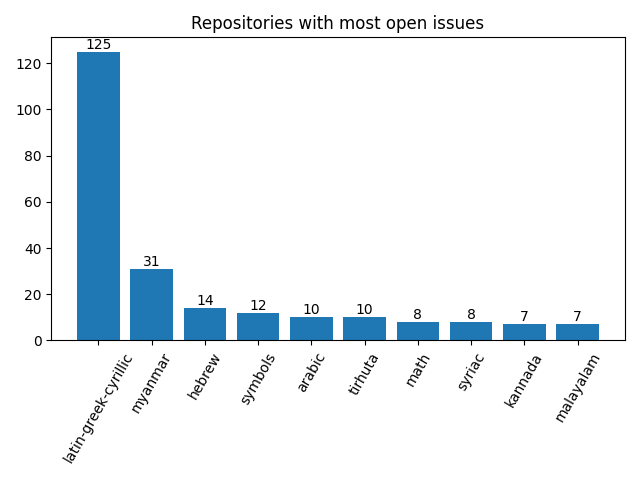
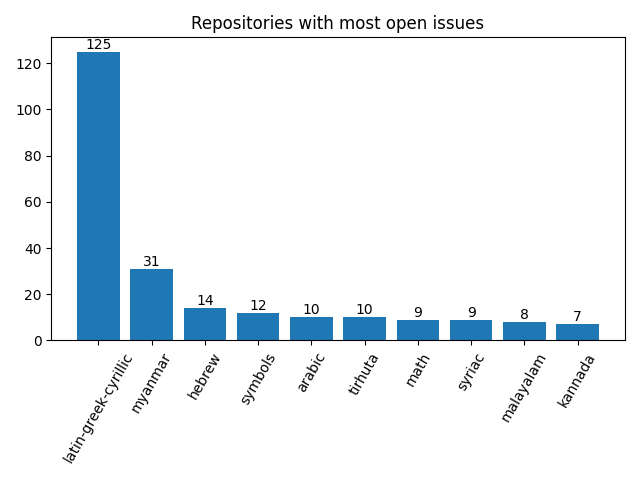
Apply automatic changes

diff --git a/docs/analytics.html b/docs/analytics.html
@@ -104,8 +104,8 @@ td .material-icons { display:inline-flex; vertical-align: top; font-size:1.1rem;
 						</tr>
 						<tr>
 							<td>Aug</td>
-							<td>9</td>
-							<td>8</td>
+							<td>16</td>
+							<td>13</td>
 						</tr>
 					</table>
 				</div>
@@ -161,23 +161,23 @@ td .material-icons { display:inline-flex; vertical-align: top; font-size:1.1rem;
 							<td>
 								<a href="http://github.com/notofonts/math/issues">math</a>
 							</td>
-							<td>8</td>
+							<td>9</td>
 						</tr>
 						<tr>
 							<td>
 								<a href="http://github.com/notofonts/syriac/issues">syriac</a>
+							</td>
+							<td>9</td>
+						</tr>
+						<tr>
+							<td>
+								<a href="http://github.com/notofonts/malayalam/issues">malayalam</a>
 							</td>
 							<td>8</td>
 						</tr>
 						<tr>
 							<td>
 								<a href="http://github.com/notofonts/kannada/issues">kannada</a>
-							</td>
-							<td>7</td>
-						</tr>
-						<tr>
-							<td>
-								<a href="http://github.com/notofonts/malayalam/issues">malayalam</a>
 							</td>
 							<td>7</td>
 						</tr>
@@ -196,31 +196,31 @@ td .material-icons { display:inline-flex; vertical-align: top; font-size:1.1rem;
 				<tr>
 					<td>1</td>
 					<td>
-						<a href="http://github.com/notofonts/chakma/issues">chakma</a>,  						<a href="http://github.com/notofonts/chorasmian/issues">chorasmian</a>,  						<a href="http://github.com/notofonts/deseret/issues">deseret</a>,  						<a href="http://github.com/notofonts/dogra/issues">dogra</a>,  						<a href="http://github.com/notofonts/duployan/issues">duployan</a>,  						<a href="http://github.com/notofonts/elbasan/issues">elbasan</a>,  						<a href="http://github.com/notofonts/ethiopic/issues">ethiopic</a>,  						<a href="http://github.com/notofonts/hanunoo/issues">hanunoo</a>,  						<a href="http://github.com/notofonts/inscriptional-pahlavi/issues">inscriptional-pahlavi</a>,  						<a href="http://github.com/notofonts/kharoshthi/issues">kharoshthi</a>,  						<a href="http://github.com/notofonts/khitan-small-script/issues">khitan-small-script</a>,  						<a href="http://github.com/notofonts/khmer/issues">khmer</a>,  						<a href="http://github.com/notofonts/khudawadi/issues">khudawadi</a>,  						<a href="http://github.com/notofonts/lao/issues">lao</a>,  						<a href="http://github.com/notofonts/masaram-gondi/issues">masaram-gondi</a>,  						<a href="http://github.com/notofonts/meetei-mayek/issues">meetei-mayek</a>,  						<a href="http://github.com/notofonts/miao/issues">miao</a>,  						<a href="http://github.com/notofonts/mongolian/issues">mongolian</a>,  						<a href="http://github.com/notofonts/nag-mundari/issues">nag-mundari</a>,  						<a href="http://github.com/notofonts/nko/issues">nko</a>,  						<a href="http://github.com/notofonts/old-italic/issues">old-italic</a>,  						<a href="http://github.com/notofonts/old-turkic/issues">old-turkic</a>,  						<a href="http://github.com/notofonts/pahawh-hmong/issues">pahawh-hmong</a>,  						<a href="http://github.com/notofonts/pau-cin-hau/issues">pau-cin-hau</a>,  						<a href="http://github.com/notofonts/phags-pa/issues">phags-pa</a>,  						<a href="http://github.com/notofonts/rejang/issues">rejang</a>,  						<a href="http://github.com/notofonts/saurashtra/issues">saurashtra</a>,  						<a href="http://github.com/notofonts/sogdian/issues">sogdian</a>,  						<a href="http://github.com/notofonts/sundanese/issues">sundanese</a>,  						<a href="http://github.com/notofonts/tai-le/issues">tai-le</a>,  						<a href="http://github.com/notofonts/tai-tham/issues">tai-tham</a>,  						<a href="http://github.com/notofonts/takri/issues">takri</a>,  						<a href="http://github.com/notofonts/tangsa/issues">tangsa</a>,  						<a href="http://github.com/notofonts/tangut/issues">tangut</a>,  						<a href="http://github.com/notofonts/thaana/issues">thaana</a>,  						<a href="http://github.com/notofonts/toto/issues">toto</a> 
+						<a href="http://github.com/notofonts/chakma/issues">chakma</a>,  						<a href="http://github.com/notofonts/chorasmian/issues">chorasmian</a>,  						<a href="http://github.com/notofonts/deseret/issues">deseret</a>,  						<a href="http://github.com/notofonts/dogra/issues">dogra</a>,  						<a href="http://github.com/notofonts/duployan/issues">duployan</a>,  						<a href="http://github.com/notofonts/elbasan/issues">elbasan</a>,  						<a href="http://github.com/notofonts/ethiopic/issues">ethiopic</a>,  						<a href="http://github.com/notofonts/glagolitic/issues">glagolitic</a>,  						<a href="http://github.com/notofonts/hanunoo/issues">hanunoo</a>,  						<a href="http://github.com/notofonts/inscriptional-pahlavi/issues">inscriptional-pahlavi</a>,  						<a href="http://github.com/notofonts/kharoshthi/issues">kharoshthi</a>,  						<a href="http://github.com/notofonts/khitan-small-script/issues">khitan-small-script</a>,  						<a href="http://github.com/notofonts/khmer/issues">khmer</a>,  						<a href="http://github.com/notofonts/khudawadi/issues">khudawadi</a>,  						<a href="http://github.com/notofonts/lao/issues">lao</a>,  						<a href="http://github.com/notofonts/masaram-gondi/issues">masaram-gondi</a>,  						<a href="http://github.com/notofonts/meetei-mayek/issues">meetei-mayek</a>,  						<a href="http://github.com/notofonts/miao/issues">miao</a>,  						<a href="http://github.com/notofonts/mongolian/issues">mongolian</a>,  						<a href="http://github.com/notofonts/nag-mundari/issues">nag-mundari</a>,  						<a href="http://github.com/notofonts/nko/issues">nko</a>,  						<a href="http://github.com/notofonts/old-italic/issues">old-italic</a>,  						<a href="http://github.com/notofonts/old-turkic/issues">old-turkic</a>,  						<a href="http://github.com/notofonts/pahawh-hmong/issues">pahawh-hmong</a>,  						<a href="http://github.com/notofonts/pau-cin-hau/issues">pau-cin-hau</a>,  						<a href="http://github.com/notofonts/phags-pa/issues">phags-pa</a>,  						<a href="http://github.com/notofonts/rejang/issues">rejang</a>,  						<a href="http://github.com/notofonts/saurashtra/issues">saurashtra</a>,  						<a href="http://github.com/notofonts/sogdian/issues">sogdian</a>,  						<a href="http://github.com/notofonts/sundanese/issues">sundanese</a>,  						<a href="http://github.com/notofonts/tai-le/issues">tai-le</a>,  						<a href="http://github.com/notofonts/tai-tham/issues">tai-tham</a>,  						<a href="http://github.com/notofonts/takri/issues">takri</a>,  						<a href="http://github.com/notofonts/tangsa/issues">tangsa</a>,  						<a href="http://github.com/notofonts/thaana/issues">thaana</a>,  						<a href="http://github.com/notofonts/toto/issues">toto</a> 
 					</td>
 				</tr>
 				<tr>
 					<td>2</td>
 					<td>
-						<a href="http://github.com/notofonts/adlam/issues">adlam</a>,  						<a href="http://github.com/notofonts/armenian/issues">armenian</a>,  						<a href="http://github.com/notofonts/brahmi/issues">brahmi</a>,  						<a href="http://github.com/notofonts/coptic/issues">coptic</a>,  						<a href="http://github.com/notofonts/cuneiform/issues">cuneiform</a>,  						<a href="http://github.com/notofonts/devanagari/issues">devanagari</a>,  						<a href="http://github.com/notofonts/lydian/issues">lydian</a>,  						<a href="http://github.com/notofonts/mandaic/issues">mandaic</a>,  						<a href="http://github.com/notofonts/music/issues">music</a>,  						<a href="http://github.com/notofonts/old-hungarian-ui/issues">old-hungarian-ui</a>,  						<a href="http://github.com/notofonts/oriya/issues">oriya</a>,  						<a href="http://github.com/notofonts/sign-writing/issues">sign-writing</a>,  						<a href="http://github.com/notofonts/tagalog/issues">tagalog</a>,  						<a href="http://github.com/notofonts/tamil/issues">tamil</a>,  						<a href="http://github.com/notofonts/telugu/issues">telugu</a> 
+						<a href="http://github.com/notofonts/adlam/issues">adlam</a>,  						<a href="http://github.com/notofonts/armenian/issues">armenian</a>,  						<a href="http://github.com/notofonts/brahmi/issues">brahmi</a>,  						<a href="http://github.com/notofonts/coptic/issues">coptic</a>,  						<a href="http://github.com/notofonts/cuneiform/issues">cuneiform</a>,  						<a href="http://github.com/notofonts/mandaic/issues">mandaic</a>,  						<a href="http://github.com/notofonts/music/issues">music</a>,  						<a href="http://github.com/notofonts/old-hungarian-ui/issues">old-hungarian-ui</a>,  						<a href="http://github.com/notofonts/oriya/issues">oriya</a>,  						<a href="http://github.com/notofonts/sign-writing/issues">sign-writing</a>,  						<a href="http://github.com/notofonts/tagalog/issues">tagalog</a>,  						<a href="http://github.com/notofonts/tamil/issues">tamil</a>,  						<a href="http://github.com/notofonts/telugu/issues">telugu</a> 
 					</td>
 				</tr>
 				<tr>
 					<td>3</td>
 					<td>
-						<a href="http://github.com/notofonts/ahom/issues">ahom</a>,  						<a href="http://github.com/notofonts/georgian/issues">georgian</a>,  						<a href="http://github.com/notofonts/glagolitic/issues">glagolitic</a>,  						<a href="http://github.com/notofonts/inscriptional-parthian/issues">inscriptional-parthian</a>,  						<a href="http://github.com/notofonts/kaithi/issues">kaithi</a>,  						<a href="http://github.com/notofonts/khojki/issues">khojki</a>,  						<a href="http://github.com/notofonts/limbu/issues">limbu</a>,  						<a href="http://github.com/notofonts/manichaean/issues">manichaean</a>,  						<a href="http://github.com/notofonts/nandinagari/issues">nandinagari</a>,  						<a href="http://github.com/notofonts/psalter-pahlavi/issues">psalter-pahlavi</a>,  						<a href="http://github.com/notofonts/sharada/issues">sharada</a>,  						<a href="http://github.com/notofonts/siddham/issues">siddham</a>,  						<a href="http://github.com/notofonts/thai/issues">thai</a>,  						<a href="http://github.com/notofonts/tifinagh/issues">tifinagh</a>,  						<a href="http://github.com/notofonts/znamenny/issues">znamenny</a> 
+						<a href="http://github.com/notofonts/ahom/issues">ahom</a>,  						<a href="http://github.com/notofonts/georgian/issues">georgian</a>,  						<a href="http://github.com/notofonts/inscriptional-parthian/issues">inscriptional-parthian</a>,  						<a href="http://github.com/notofonts/kaithi/issues">kaithi</a>,  						<a href="http://github.com/notofonts/khojki/issues">khojki</a>,  						<a href="http://github.com/notofonts/limbu/issues">limbu</a>,  						<a href="http://github.com/notofonts/manichaean/issues">manichaean</a>,  						<a href="http://github.com/notofonts/nandinagari/issues">nandinagari</a>,  						<a href="http://github.com/notofonts/psalter-pahlavi/issues">psalter-pahlavi</a>,  						<a href="http://github.com/notofonts/sharada/issues">sharada</a>,  						<a href="http://github.com/notofonts/siddham/issues">siddham</a>,  						<a href="http://github.com/notofonts/thai/issues">thai</a>,  						<a href="http://github.com/notofonts/tifinagh/issues">tifinagh</a>,  						<a href="http://github.com/notofonts/znamenny/issues">znamenny</a> 
 					</td>
 				</tr>
 				<tr>
 					<td>4</td>
 					<td>
-						<a href="http://github.com/notofonts/balinese/issues">balinese</a>,  						<a href="http://github.com/notofonts/batak/issues">batak</a>,  						<a href="http://github.com/notofonts/javanese/issues">javanese</a>,  						<a href="http://github.com/notofonts/nastaliq/issues">nastaliq</a>,  						<a href="http://github.com/notofonts/old-uyghur/issues">old-uyghur</a>,  						<a href="http://github.com/notofonts/soyombo/issues">soyombo</a>,  						<a href="http://github.com/notofonts/tibetan/issues">tibetan</a> 
+						<a href="http://github.com/notofonts/balinese/issues">balinese</a>,  						<a href="http://github.com/notofonts/batak/issues">batak</a>,  						<a href="http://github.com/notofonts/javanese/issues">javanese</a>,  						<a href="http://github.com/notofonts/old-uyghur/issues">old-uyghur</a>,  						<a href="http://github.com/notofonts/soyombo/issues">soyombo</a>,  						<a href="http://github.com/notofonts/tibetan/issues">tibetan</a> 
 					</td>
 				</tr>
 				<tr>
 					<td>5</td>
 					<td>
-						<a href="http://github.com/notofonts/bengali/issues">bengali</a>,  						<a href="http://github.com/notofonts/bhaiksuki/issues">bhaiksuki</a>,  						<a href="http://github.com/notofonts/gurmukhi/issues">gurmukhi</a>,  						<a href="http://github.com/notofonts/kawi/issues">kawi</a>,  						<a href="http://github.com/notofonts/old-hungarian/issues">old-hungarian</a>,  						<a href="http://github.com/notofonts/syloti-nagri/issues">syloti-nagri</a> 
+						<a href="http://github.com/notofonts/bengali/issues">bengali</a>,  						<a href="http://github.com/notofonts/bhaiksuki/issues">bhaiksuki</a>,  						<a href="http://github.com/notofonts/devanagari/issues">devanagari</a>,  						<a href="http://github.com/notofonts/gurmukhi/issues">gurmukhi</a>,  						<a href="http://github.com/notofonts/kawi/issues">kawi</a>,  						<a href="http://github.com/notofonts/nastaliq/issues">nastaliq</a>,  						<a href="http://github.com/notofonts/old-hungarian/issues">old-hungarian</a>,  						<a href="http://github.com/notofonts/syloti-nagri/issues">syloti-nagri</a> 
 					</td>
 				</tr>
 				<tr>
@@ -232,11 +232,17 @@ td .material-icons { display:inline-flex; vertical-align: top; font-size:1.1rem;
 				<tr>
 					<td>7</td>
 					<td>
-						<a href="http://github.com/notofonts/kannada/issues">kannada</a>,  						<a href="http://github.com/notofonts/malayalam/issues">malayalam</a> 
+						<a href="http://github.com/notofonts/kannada/issues">kannada</a> 
 					</td>
 				</tr>
 				<tr>
 					<td>8</td>
+					<td>
+						<a href="http://github.com/notofonts/malayalam/issues">malayalam</a> 
+					</td>
+				</tr>
+				<tr>
+					<td>9</td>
 					<td>
 						<a href="http://github.com/notofonts/math/issues">math</a>,  						<a href="http://github.com/notofonts/syriac/issues">syriac</a> 
 					</td>
@@ -265,21 +271,21 @@ td .material-icons { display:inline-flex; vertical-align: top; font-size:1.1rem;
 
 									<a href="http://github.com/notofonts/arabic/issues">arabic</a>: 10, 
 
-									<a href="http://github.com/notofonts/kannada/issues">kannada</a>: 7, 
+									<a href="http://github.com/notofonts/malayalam/issues">malayalam</a>: 8, 
 
-									<a href="http://github.com/notofonts/malayalam/issues">malayalam</a>: 7, 
+									<a href="http://github.com/notofonts/kannada/issues">kannada</a>: 7, 
 
 									<a href="http://github.com/notofonts/gujarati/issues">gujarati</a>: 6, 
 
 									<a href="http://github.com/notofonts/bengali/issues">bengali</a>: 5, 
 
+									<a href="http://github.com/notofonts/devanagari/issues">devanagari</a>: 5, 
+
 									<a href="http://github.com/notofonts/gurmukhi/issues">gurmukhi</a>: 5, 
 
-									<a href="http://github.com/notofonts/nastaliq/issues">nastaliq</a>: 4, 
+									<a href="http://github.com/notofonts/nastaliq/issues">nastaliq</a>: 5, 
 
 									<a href="http://github.com/notofonts/armenian/issues">armenian</a>: 2, 
-
-									<a href="http://github.com/notofonts/devanagari/issues">devanagari</a>: 2, 
 
 									<a href="http://github.com/notofonts/oriya/issues">oriya</a>: 2, 
 
@@ -313,9 +319,9 @@ td .material-icons { display:inline-flex; vertical-align: top; font-size:1.1rem;
 							<td>
 									<a href="http://github.com/notofonts/symbols/issues">symbols</a>: 12, 
 
-									<a href="http://github.com/notofonts/math/issues">math</a>: 8, 
+									<a href="http://github.com/notofonts/math/issues">math</a>: 9, 
 
-									<a href="http://github.com/notofonts/syriac/issues">syriac</a>: 8, 
+									<a href="http://github.com/notofonts/syriac/issues">syriac</a>: 9, 
 
 									<a href="http://github.com/notofonts/modi/issues">modi</a>: 6, 
 
@@ -401,8 +407,6 @@ td .material-icons { display:inline-flex; vertical-align: top; font-size:1.1rem;
 
 									<a href="http://github.com/notofonts/soyombo/issues">soyombo</a>: 4, 
 
-									<a href="http://github.com/notofonts/glagolitic/issues">glagolitic</a>: 3, 
-
 									<a href="http://github.com/notofonts/kaithi/issues">kaithi</a>: 3, 
 
 									<a href="http://github.com/notofonts/manichaean/issues">manichaean</a>: 3, 
@@ -413,8 +417,6 @@ td .material-icons { display:inline-flex; vertical-align: top; font-size:1.1rem;
 
 									<a href="http://github.com/notofonts/cuneiform/issues">cuneiform</a>: 2, 
 
-									<a href="http://github.com/notofonts/lydian/issues">lydian</a>: 2, 
-
 									<a href="http://github.com/notofonts/mandaic/issues">mandaic</a>: 2, 
 
 									<a href="http://github.com/notofonts/old-hungarian-ui/issues">old-hungarian-ui</a>: 2, 
@@ -422,6 +424,8 @@ td .material-icons { display:inline-flex; vertical-align: top; font-size:1.1rem;
 									<a href="http://github.com/notofonts/deseret/issues">deseret</a>: 1, 
 
 									<a href="http://github.com/notofonts/dogra/issues">dogra</a>: 1, 
+
+									<a href="http://github.com/notofonts/glagolitic/issues">glagolitic</a>: 1, 
 
 									<a href="http://github.com/notofonts/khudawadi/issues">khudawadi</a>: 1, 
 
@@ -457,9 +461,7 @@ td .material-icons { display:inline-flex; vertical-align: top; font-size:1.1rem;
 
 									<a href="http://github.com/notofonts/old-turkic/issues">old-turkic</a>: 1, 
 
-									<a href="http://github.com/notofonts/sogdian/issues">sogdian</a>: 1, 
-
-									<a href="http://github.com/notofonts/tangut/issues">tangut</a>: 1
+									<a href="http://github.com/notofonts/sogdian/issues">sogdian</a>: 1
 							</td>
 						</tr>
 					</table>
